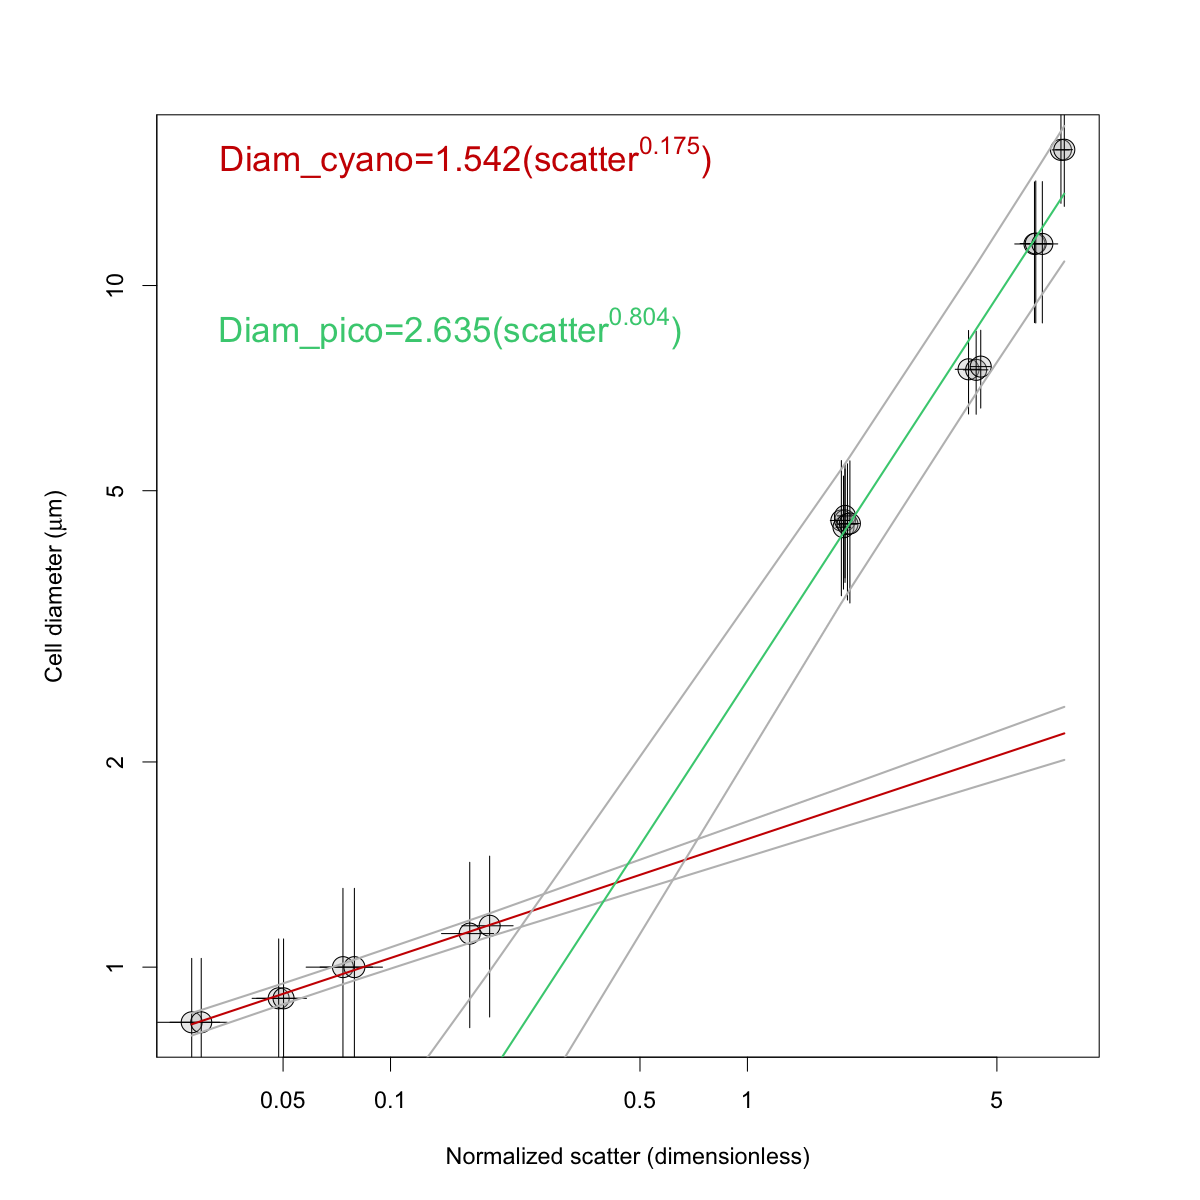
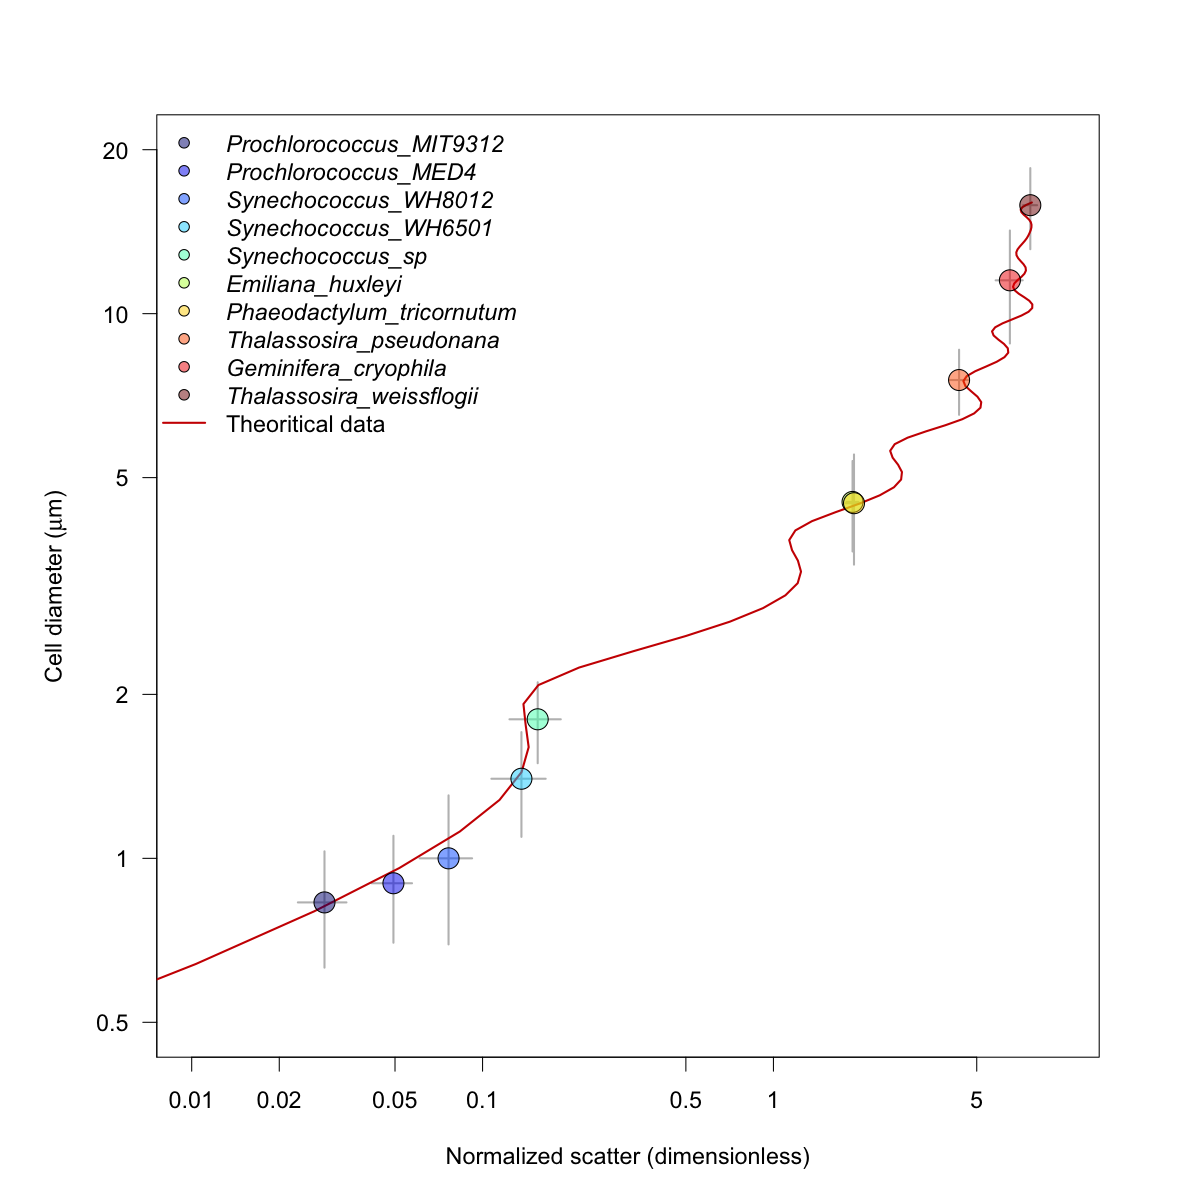
add Mie theory

diff --git a/README.md b/README.md
@@ -1,8 +1,8 @@
 # Calibration light scattering - cell volume
-The goal of the experiment was to calibrate light scattering measured by our SeaFlow instrument into cell volume measured by Coulter Coulter using phytoplankton cultures of various shapes and sizes.
+The goal of the experiment was to calibrate light scattering measured by our SeaFlow instrument into cell diameter measured by Coulter Coulter using phytoplankton cultures of various shapes and sizes.
 We used cultures grown under continuous light and monitored the cultures daily to ensure cells were growing exponentially at the start of the experiments.
-The light scattering property of each cell (alive, not fixed), normalized by 1 micron beads, was measured by SeaFlow. The same sample was analyzed by Coulter Counter. A linear regression model (type II) was then used to fit normalized forward light scatter to cell volume. The plot below shows the calibration curve.
+The light scattering property of each cell (alive, not fixed), normalized by 1 micron beads, was measured by SeaFlow. The same sample was analyzed by Coulter Counter.
 
-![alt text](Seaflow-volume-scatter.png "SeaFlow calibration of forward scatter normalized by 1 micron beads")
+![alt text](Seaflow-volume-scatter.png "SeaFlow calibration of forward scatter normalized by 1 micron beads compared to Mie theory")
 
-***François Ribalet & Megan Schatz contributed to this project.***
+***François Ribalet, Megan Schatz and Jarred Swalwell contributed to this project.***
